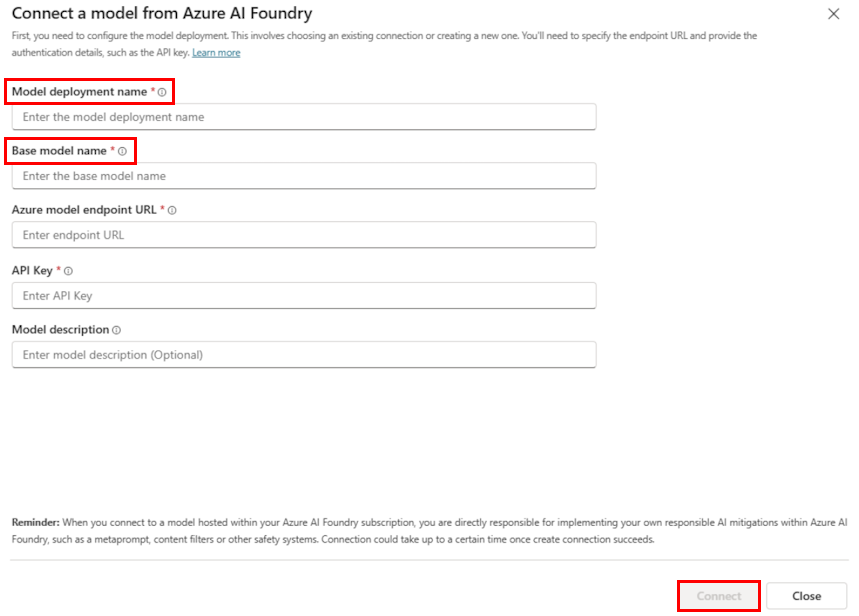
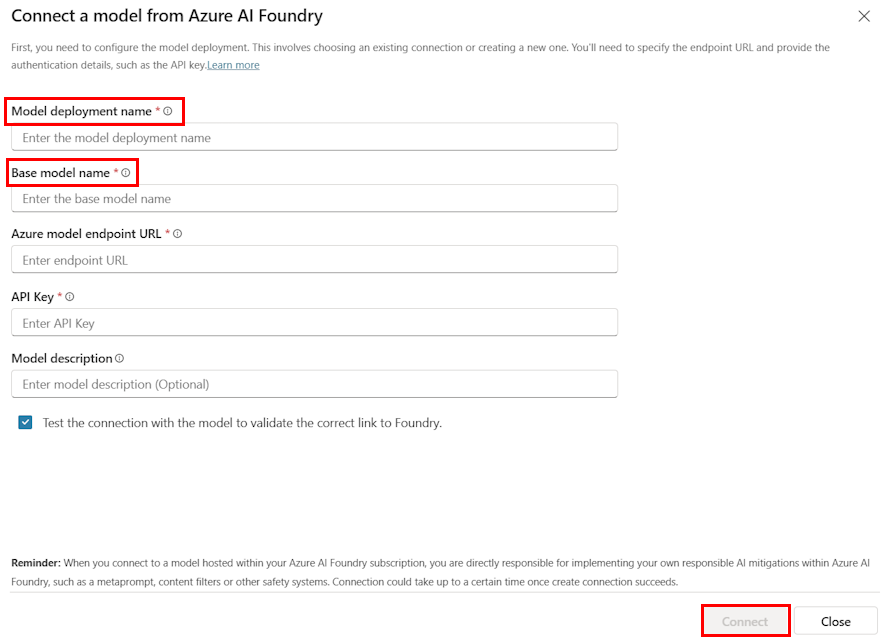
ga-screenshots

diff --git a/ai-builder-docs/byom-for-your-prompts.md b/ai-builder-docs/byom-for-your-prompts.md
@@ -1,5 +1,5 @@
 ---
-title: Bring your own model for your prompts (preview)
+title: Bring your own model for your prompts
 description: Learn how to bring your own models into your prompts so that you can use them in Microsoft Copilot Studio, Power Apps, and Power Automate.
 author: MKBajwa-PM
 contributors:
@@ -9,15 +9,13 @@ ms.topic: article
 ms.collection: 
 - overview
 - bap-ai-copilot
-ms.date: 05/19/2025
+ms.date: 07/23/2025
 ms.update-cycle: 180-days
 ms.author: mbajwa
 ms.reviewer: angieandrews
 ---
 
-# Bring your own model for your prompts (preview)
-
-[!INCLUDE[cc-beta-prerelease-disclaimer](./includes/cc-beta-prerelease-disclaimer.md)]
+# Bring your own model for your prompts
 
 The *Azure AI Foundry models for prompts* feature is available within Copilot Studio, Power Apps, and Power Automate. This native integration with Azure AI Foundry brings the latest frontier models into your prompts in Copilot Studio.
 
@@ -28,10 +26,6 @@ This includes the following models:
 - [DeepSeek](https://azure.microsoft.com/blog/deepseek-r1-is-now-available-on-azure-ai-foundry-and-github/?msockid=04801c13147c64e30fc30f7415cf65e4)
 - And 1,800 plus more in [Azure AI Foundry / Model
   catalog](https://ai.azure.com/explore/models?tid=72f988bf-86f1-41af-91ab-2d7cd011db47)
-
-> [!IMPORTANT]
-> - This is a production-ready preview feature.
->- Production-ready previews are subject to [supplemental terms of use](https://go.microsoft.com/fwlink/?linkid=2189520).
 
 You can access a diverse portfolio of AI models, including cutting-edge open-source solutions, industry-specific models, and task-based AI capabilities&mdash;all within the trusted, scalable, and enterprise-ready platform of Copilot Studio. With the native Azure AI Foundry integration, we bring the best capabilities from across our platforms into Copilot Studio to make it your one-stop hub to build agents.
 
@@ -85,12 +79,12 @@ After you create an agent, add prompt as an action to create a prompt.
 1. At the top of the screen, enter a name for your prompt.
 1. Enter your prompt in one of the following ways:
     - Use your own prompt: Under the **Instructions** heading, write or paste your own prompt.
-    - Get help from Copilot: Under the **Get started with Copilot** heading, describe what you want your prompt to do, and then select the right arrow. Copilot suggests a prompt for you.
+    - Get help from Copilot: Under the **Get started with Copilot** heading, describe what you want your prompt to do, and then select the right arrow. Copilot suggests a prompt for you. If you want to use it, select **Keep it**.
 1. While working with prompts, you can choose a model you want to work with. By default, you have some managed models available. You can also bring in Azure AI Foundry models and use them for your prompt.
 
     On the panel to the right of **Instructions**, select the dropdown menu in the **Model** field, and select the plus sign (**+**) to connect to a model from Azure AI Foundry.
 
-    :::image type="content" source="media/byom-for-your-prompts/prompt-description.png" alt-text="Screenshot of the 'New Prompt' screen, where you add a prompt and select a model.":::
+    :::image type="content" source="media/byom-for-your-prompts/prompt-description.png" alt-text="Screenshot of the 'Custom Prompt' screen, where you add a prompt and select a model.":::
 
 1. In the **Connect a model from Azure AI Foundry** screen, enter information about the model from [Azure AI Foundry / Model
   catalog](https://ai.azure.com/explore/models?tid=72f988bf-86f1-41af-91ab-2d7cd011db47). Make sure to add the **Model deployment name** and **Base model name** exactly as they appear in Azure AI Foundry.
@@ -102,7 +96,7 @@ After you create an agent, add prompt as an action to create a prompt.
 
 Your model is now added to the **Model** dropdown menu. You can now select this model for your prompt and add it to the agent. Anytime this prompt runs, it always uses the selected model.
 
-:::image type="content" source="media/byom-for-your-prompts/prompt-model.png" alt-text="Screenshot of the 'Model' dropdown menu.":::
+:::image type="content" source="media/byom-for-your-prompts/prompt-model-ga.png" alt-text="Screenshot of the 'Model' dropdown menu.":::
 
 These models also work well with image and documents input. However, some models have a limitation. When image input is added, the dropdown menu shows only models from Azure AI Foundry that work with images. This allows you to select a model where you can be successful when you use images or documents.
 
